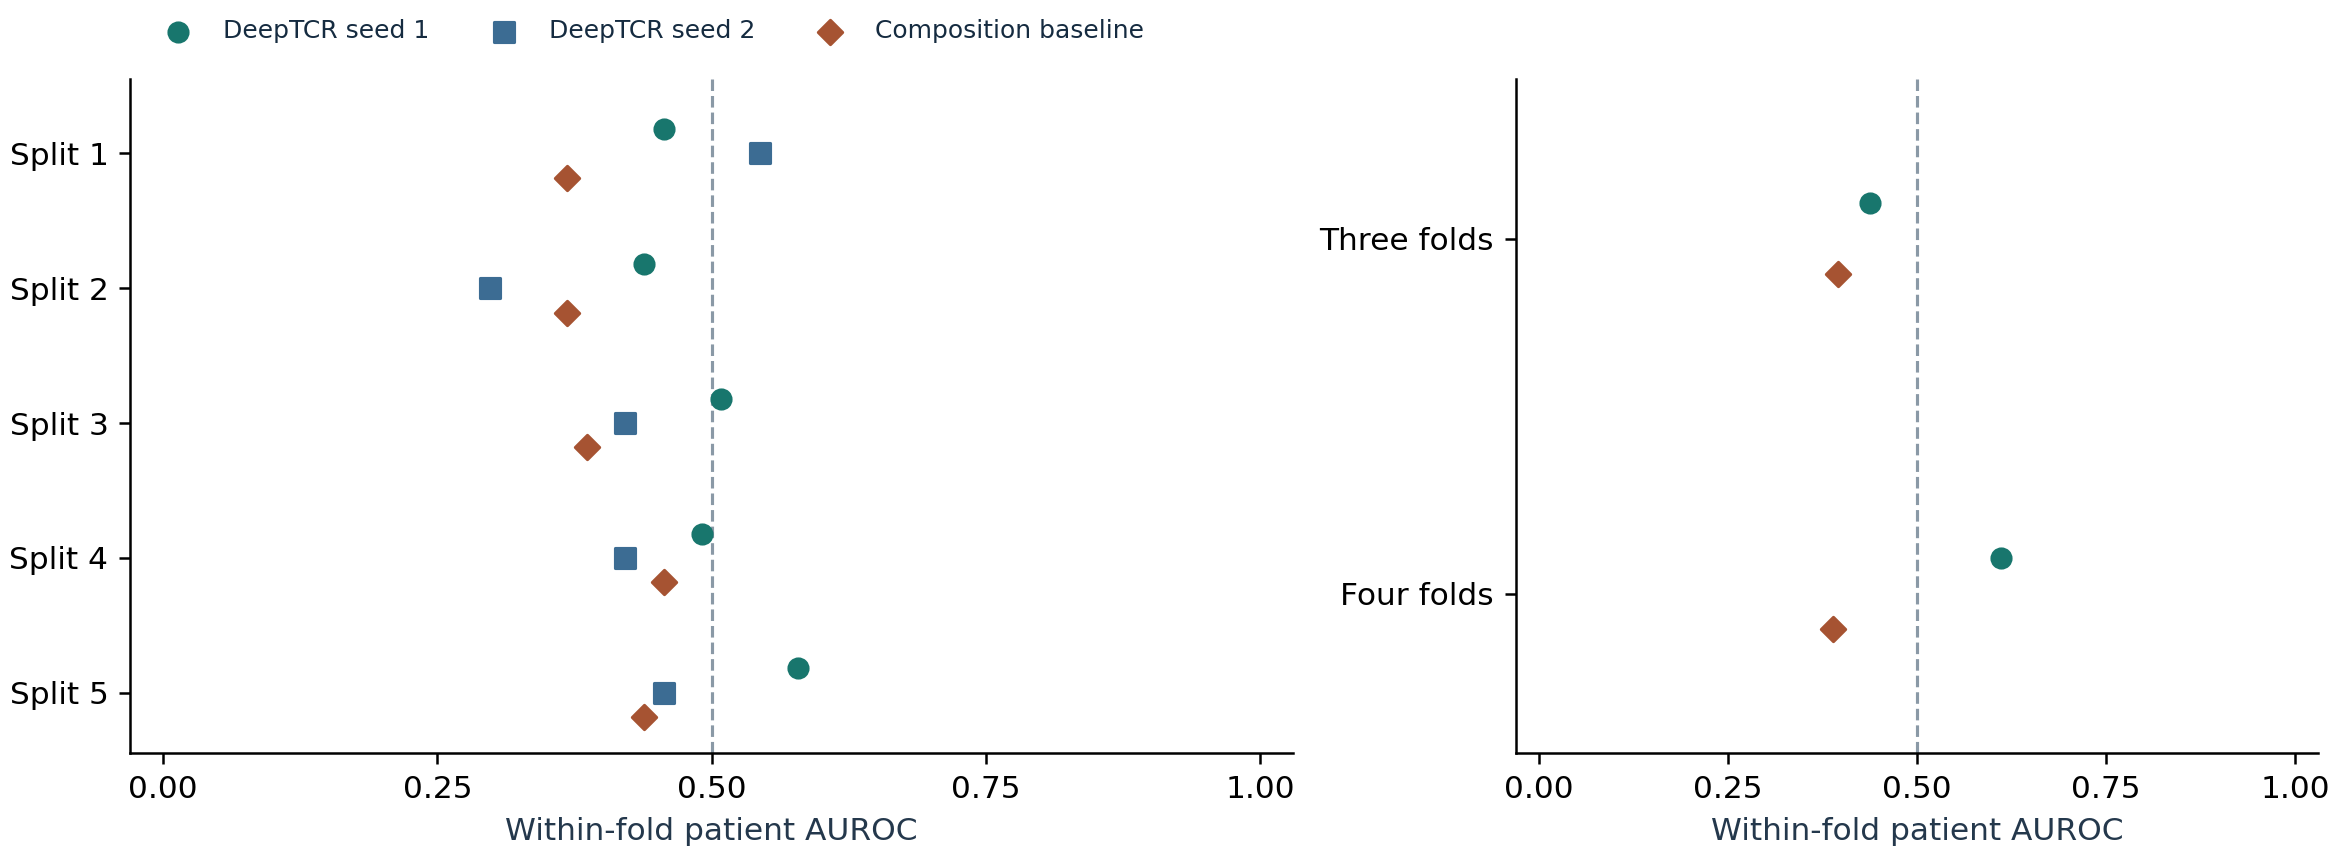
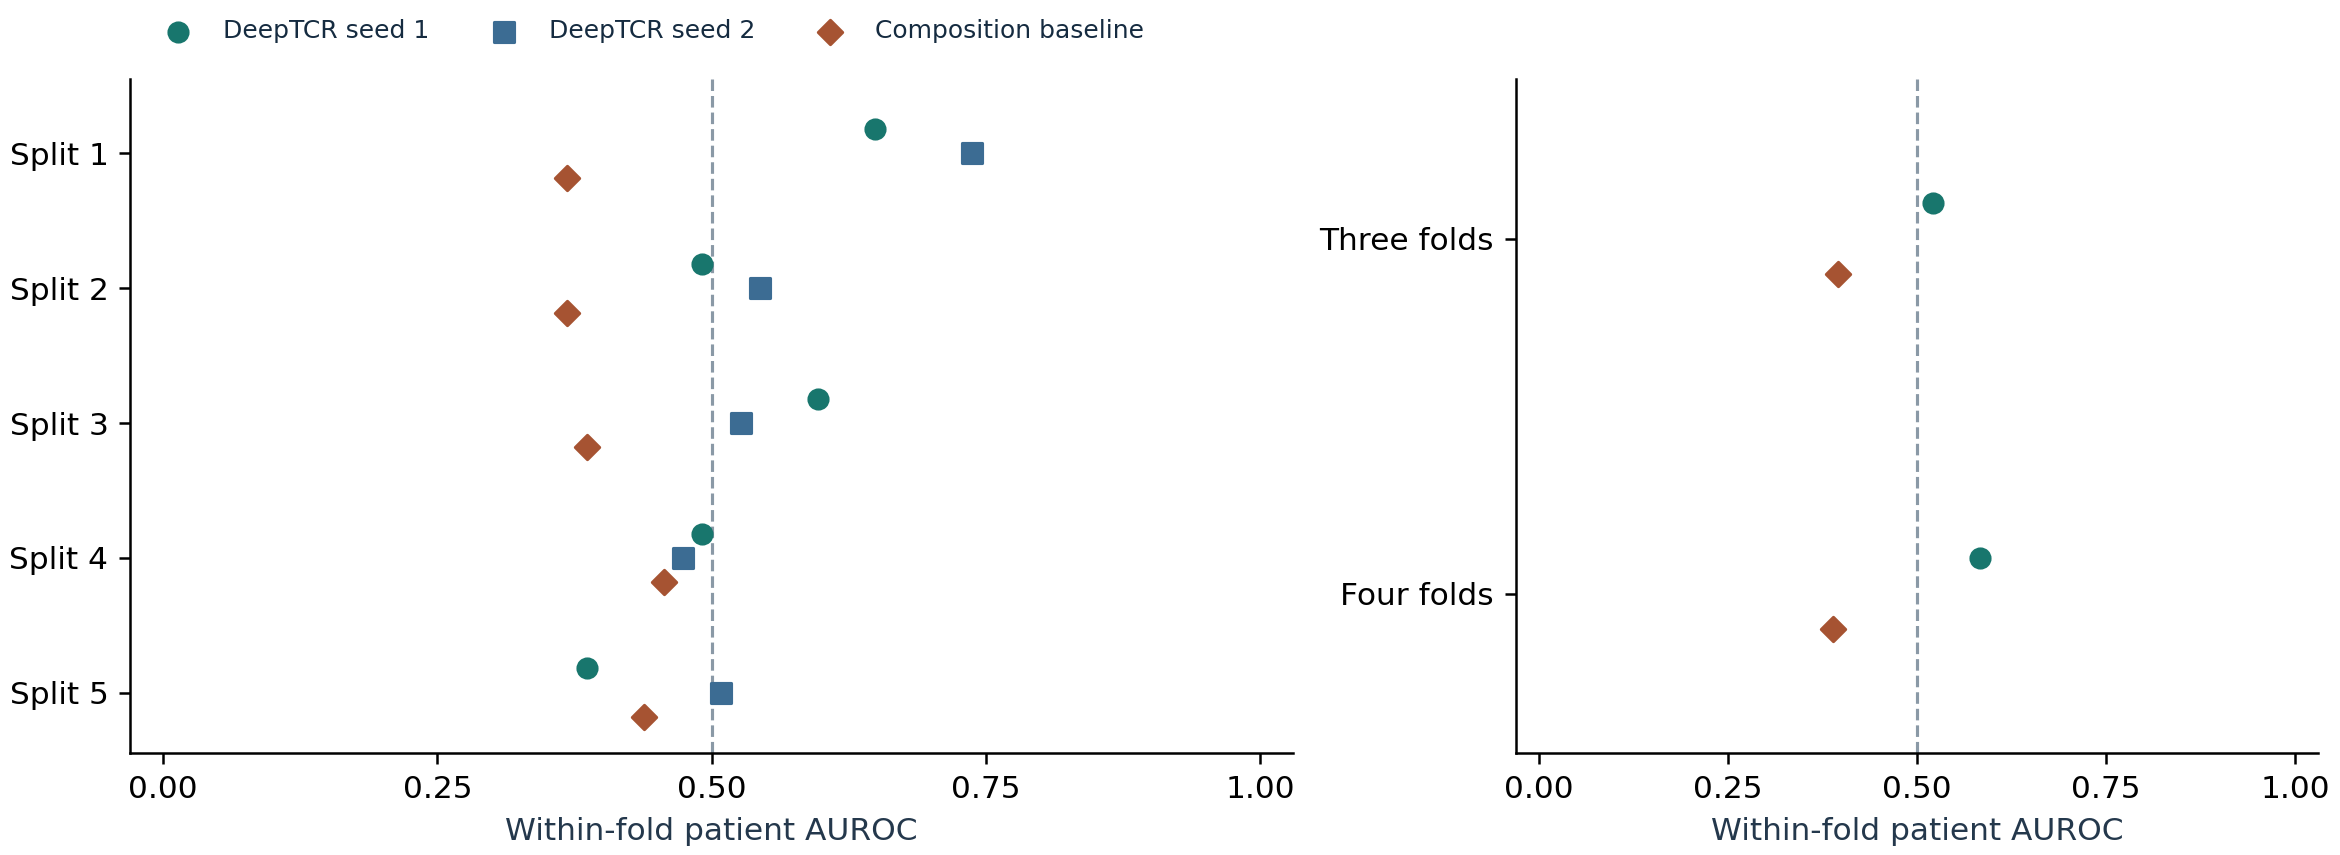
Update patient-held-out DeepTCR results and clarify the myeloma collaboration

diff --git a/index.html b/index.html
@@ -106,7 +106,7 @@
 <a class="link" href="assets/papers/fellowship-manuscript.pdf">Manuscript (PDF)</a>
 <a class="link" href="assets/papers/fellowship-supplement.pdf">Supplement (PDF)</a>
 <a class="link" href="https://github.com/MateenahJAHAN/Project-59-CMAP-Sex-Differences/blob/main/manuscript/followups/marker_stability/marker_stability.pdf">Marker persistence follow-up (PDF)</a>
-<a class="link" href="https://github.com/MateenahJAHAN/Project-59-CMAP-Sex-Differences/tree/main/verification">Results</a>
+<a class="link" href="https://github.com/MateenahJAHAN/Project-59-CMAP-Sex-Differences/tree/main/verification/source_replay">Source-data verification</a>
 <a class="link" href="https://github.com/MateenahJAHAN/Project-59-CMAP-Sex-Differences/tree/main/analysis">Code</a>
 </div>
 </aside>
@@ -115,40 +115,40 @@
 <details class="project-evidence">
 <summary>Methods and contributions</summary>
 <p>My part was the CMap and GTEx screen that came first (50 compounds, 44 tissues) and checking the GTEx sign convention. The Tahoe-100M and LINCS2020 analyses were planned, coded and run with Claude Code and rerun with OpenAI Codex, as the manuscript’s AI-use statement describes. Dr. Ben Guebila advised on the study design.</p>
-<p>The Tahoe analysis scored eight Y-chromosome genes and XIST in vehicle-treated cells. The LINCS2020 analysis compared drug responses within 11 lineages using marker calls from bulk RNA sequencing. The <a href="https://github.com/MateenahJAHAN/Project-59-CMAP-Sex-Differences#how-the-analysis-developed">CMap and GTEx screen</a> covered 50 compounds and 44 tissues.</p>
+<p>The Tahoe analysis scored eight Y-chromosome genes and XIST in vehicle-treated cells. The LINCS2020 analysis compared drug responses within 11 lineages using marker calls from bulk RNA sequencing. The two assays agreed on marker expression in 47 of 49 cell lines and on the state name in 46. A498 expressed XIST alone in both assays, but the two classification rules assigned it different names.</p>
 
 </details>
 </article><article class="card project-featured" id="project-deeptcr">
 <h4>Predicting CD19 CAR-T response with DeepTCR</h4>
 <p>At CSIR-IGIB (Aug 2025 to Jan 2026, with Dr. Sherry Bhalla) I trained DeepTCR classifiers on beta-chain sequences from 34 patients with B-cell lymphoma, 18 of whom responded to CD19 CAR-T therapy. I also helped update the framework for Python 3.10 and TensorFlow 2.12.</p>
-<p>The published evaluation scored 239,634 eligible sequence records. Holding out whole patients gave a median AUROC of 0.456 across ten evaluations. The model did not reliably predict response in a new patient.</p>
+<p>When whole patients were held out, DeepTCR’s median AUROC was 0.518 across ten evaluations (range 0.386–0.737). The wide spread across splits of the same 34 patients leaves prediction in a new cohort unresolved.</p>
 <aside class="entry-margin">
 <figure class="readout">
-<svg viewBox="0 0 304 76" role="img" aria-label="AUROC on a scale from 0 to 1. Split by sequence: 0.754. Whole patients held out: median 0.456, range 0.298 to 0.579. Chance is 0.5.">
+<svg viewBox="0 0 304 76" role="img" aria-label="AUROC on a scale from 0 to 1. Whole patients held out. DeepTCR median 0.518, range 0.386 to 0.737. Composition baseline median 0.386. Chance is 0.5.">
 <line x1="8" x2="296" y1="52" y2="52" stroke="#94a3b8"/>
 <line x1="152.0" x2="152.0" y1="20" y2="52" stroke="#94a3b8" stroke-dasharray="3 3"/>
 <line x1="8" x2="8" y1="48" y2="56" stroke="#94a3b8"/><line x1="296" x2="296" y1="48" y2="56" stroke="#94a3b8"/>
-<rect x="93.8" y="31" width="81.0" height="6" rx="3" fill="#1a56a0" opacity="0.3"/>
-<circle cx="139.3" cy="34" r="7" fill="#1a56a0"/>
-<circle cx="225.2" cy="34" r="6" fill="#fff" stroke="#1a56a0" stroke-width="2"/>
-<text class="value" x="139.3" y="15" text-anchor="end">0.456</text>
-<text class="value" x="225.2" y="15" text-anchor="middle">0.754</text>
+<rect x="119.2" y="31" width="101.0" height="6" rx="3" fill="#1a56a0" opacity="0.3"/>
+<circle cx="157.1" cy="34" r="7" fill="#1a56a0"/>
+<circle cx="119.2" cy="34" r="6" fill="#fff" stroke="#1a56a0" stroke-width="2"/>
+<text class="value" x="157.1" y="15" text-anchor="start">0.518</text>
+<text class="value" x="119.2" y="15" text-anchor="end">0.386</text>
 <text x="8" y="71">0</text><text x="152.0" y="71" text-anchor="middle">0.5, chance</text><text x="296" y="71" text-anchor="end">1</text>
 </svg>
-<figcaption>Open: AUC from a split by sequence. Filled: median AUROC with whole patients held out. The bar is the range over ten evaluations.</figcaption>
+<figcaption>Filled and open circles mark the median AUROC for DeepTCR and the sequence-composition baseline, respectively. The bar spans the ten DeepTCR evaluations.</figcaption>
 </figure>
 <div class="project-links">
-<a class="link" href="https://github.com/MateenahJAHAN/Final_Deliverable_DeepTCRResearch_Mateenah_Jahan_CSIR/blob/main/validation/repeated-patient-cv/REPORT.md">Results</a>
+<a class="link" href="https://github.com/MateenahJAHAN/Final_Deliverable_DeepTCRResearch_Mateenah_Jahan_CSIR/blob/main/validation/repeated-patient-cv/REPORT.md">Patient-held-out results</a>
 <a class="link" href="https://github.com/MateenahJAHAN/Final_Deliverable_DeepTCRResearch_Mateenah_Jahan_CSIR/blob/main/paper/main.pdf">Research paper (PDF)</a>
 <a class="link" href="https://github.com/MateenahJAHAN/Deep-TCR---All-tutorial-working">Code and tutorials</a>
 <a class="link" href="https://github.com/sidhomj/DeepTCR/commit/715f6642292a296aa22ffba1b219908fd5af5c5f">DeepTCR release notes</a>
 </div>
 </aside>
 
-<figure class="research-figure"><a href="https://github.com/MateenahJAHAN/Final_Deliverable_DeepTCRResearch_Mateenah_Jahan_CSIR/blob/main/figures/correction/repeated-patient-auroc.png"><img src="assets/research/deeptcr-repeated-patient-auroc.png" width="2340" height="855" loading="lazy" decoding="async" alt="Within-fold patient AUROC for DeepTCR with two training seeds and for a composition baseline, across five patient splits. Most points fall below 0.5."></a><figcaption>DeepTCR and a composition baseline across patient-held-out splits</figcaption></figure>
+<figure class="research-figure"><a href="https://github.com/MateenahJAHAN/Final_Deliverable_DeepTCRResearch_Mateenah_Jahan_CSIR/blob/main/figures/correction/repeated-patient-auroc.png"><img src="assets/research/deeptcr-repeated-patient-auroc.png" width="2340" height="855" loading="lazy" decoding="async" alt="Within-fold patient AUROC for DeepTCR with two training seeds and for a composition baseline, across five patient splits. A second panel shows the three- and four-fold sensitivity checks."></a><figcaption>DeepTCR and a composition baseline across patient-held-out splits</figcaption></figure>
 <details class="project-evidence">
 <summary>How the validation changed the result</summary>
-<p class="research-meta">My trainee report gave an AUC of 0.754. That figure came from a split by sequence, so each patient’s sequences appeared in both training and test, and it does not measure prediction for new patients. In November 2026 the model was re-evaluated with whole patients held out, using AI coding agents. Across ten five-fold evaluations the median AUROC was 0.456 (range 0.298–0.579), against 0.386 for a matched composition baseline. With 34 patients, this did not show that the model predicts response.</p>
+<p class="research-meta">My trainee report gave an AUC of 0.754 when sequences from every patient appeared in both training and testing. The rerun, carried out with AI coding agents, grouped all 239,634 eligible records by patient. Across five partitions and two training seeds, DeepTCR outscored the matched sequence-composition baseline in nine of ten evaluations. On a <a href="https://github.com/MateenahJAHAN/Final_Deliverable_DeepTCRResearch_Mateenah_Jahan_CSIR/blob/main/validation/patient-grouped-deeptcr/aggregate_results.json">separate five-fold split</a>, it ranked 19 of 57 responder–nonresponder pairs correctly (AUROC 0.333).</p>
 
 </details>
 </article><article class="card project-featured" id="project-biomni">
@@ -231,7 +231,7 @@
 <h3 class="research-area" id="research-software">Research software</h3>
 <article class="card project-featured" id="project-myeloma">
 <h4>GPU-accelerated genomics for multiple myeloma</h4>
-<p>I collaborated with Ali Quidwai and other computational scientists at the Icahn School of Medicine at Mount Sinai on a sequencing workflow for the multiple myeloma team at the <a href="https://icahn.mssm.edu/research/tisch">Mount Sinai Tisch Cancer Center</a>. I helped integrate NVIDIA Parabricks on H100 GPUs, annotate cancer variants with CIViC evidence, and write the functions that turn TSV and CSV outputs into a final research report.</p>
+<p>I worked with Ali Quidwai and other computational scientists at the Icahn School of Medicine at Mount Sinai on the Multiple Myeloma Analysis Platform (MMAP), a sequencing workflow for the multiple myeloma team at the <a href="https://www.mountsinai.org/care/cancer/services/multiple-myeloma/about">Mount Sinai Tisch Cancer Center</a>. I helped integrate NVIDIA Parabricks and tune its deployment on H100 GPUs, add CIViC evidence to variant annotations, and write functions that turn TSV and CSV outputs into a research report.</p>
 <aside class="entry-margin">
 <div class="project-links">
 <a class="link" href="https://github.com/MateenahJAHAN/myeloma-genomics-parabricks">My contribution</a>
